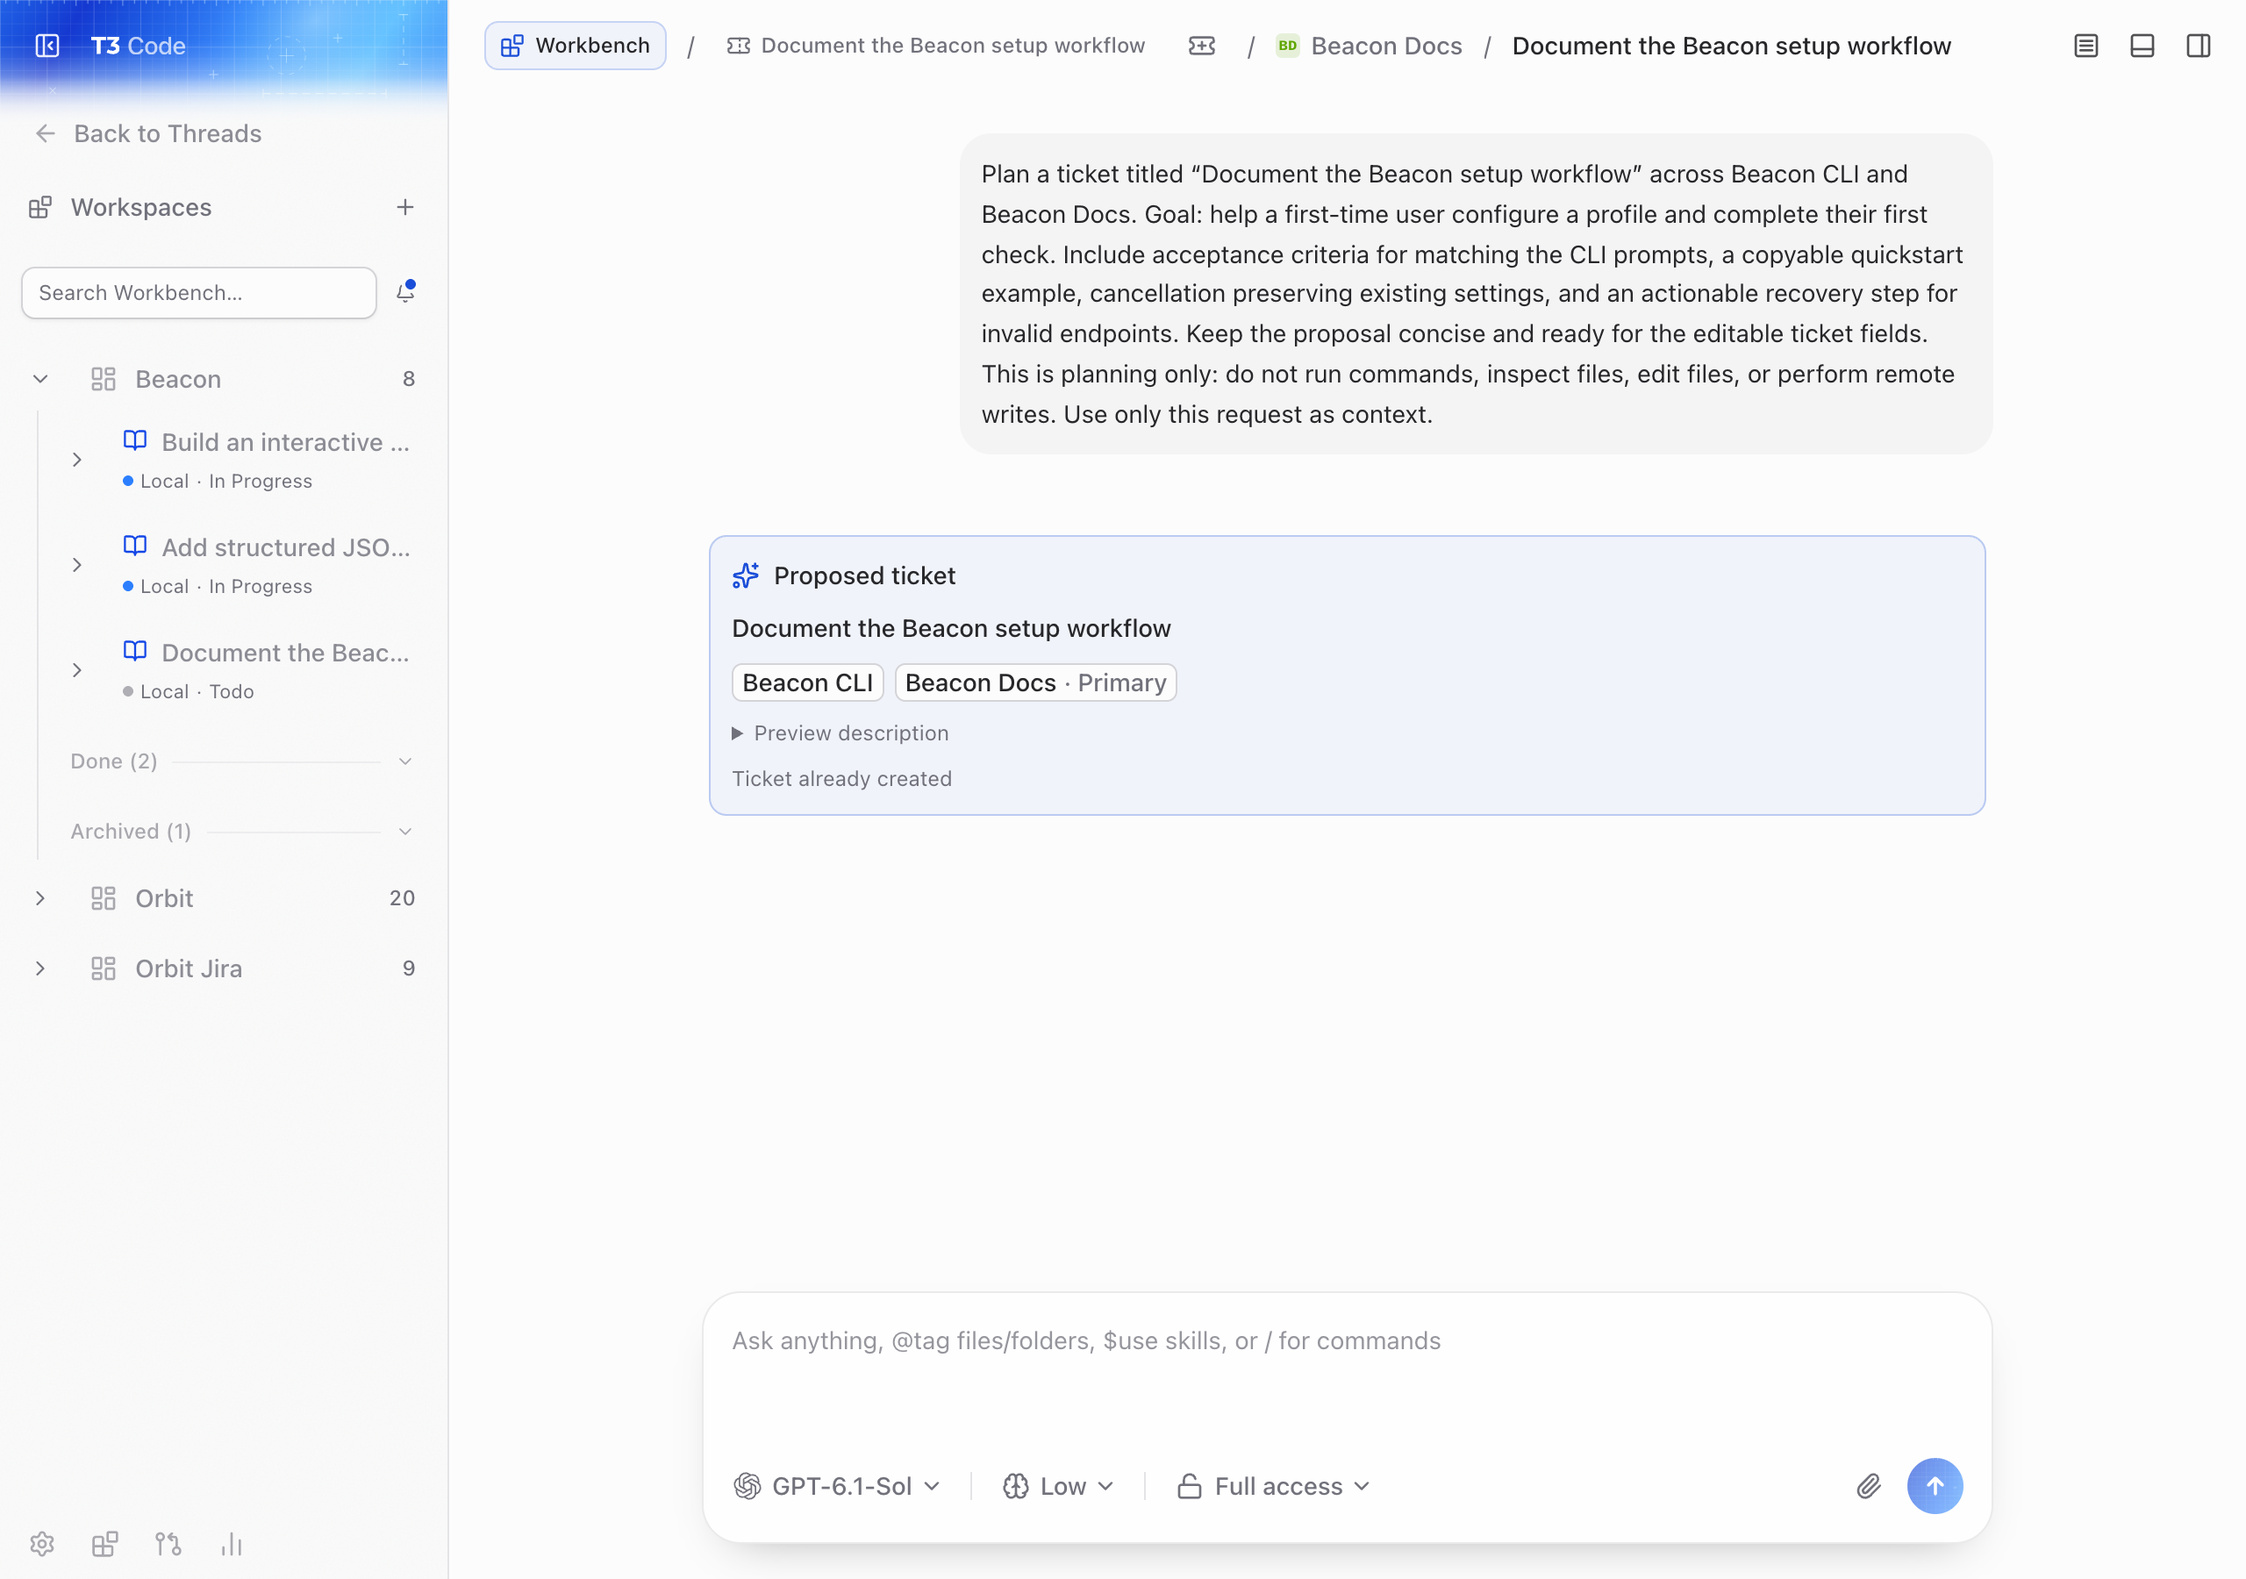
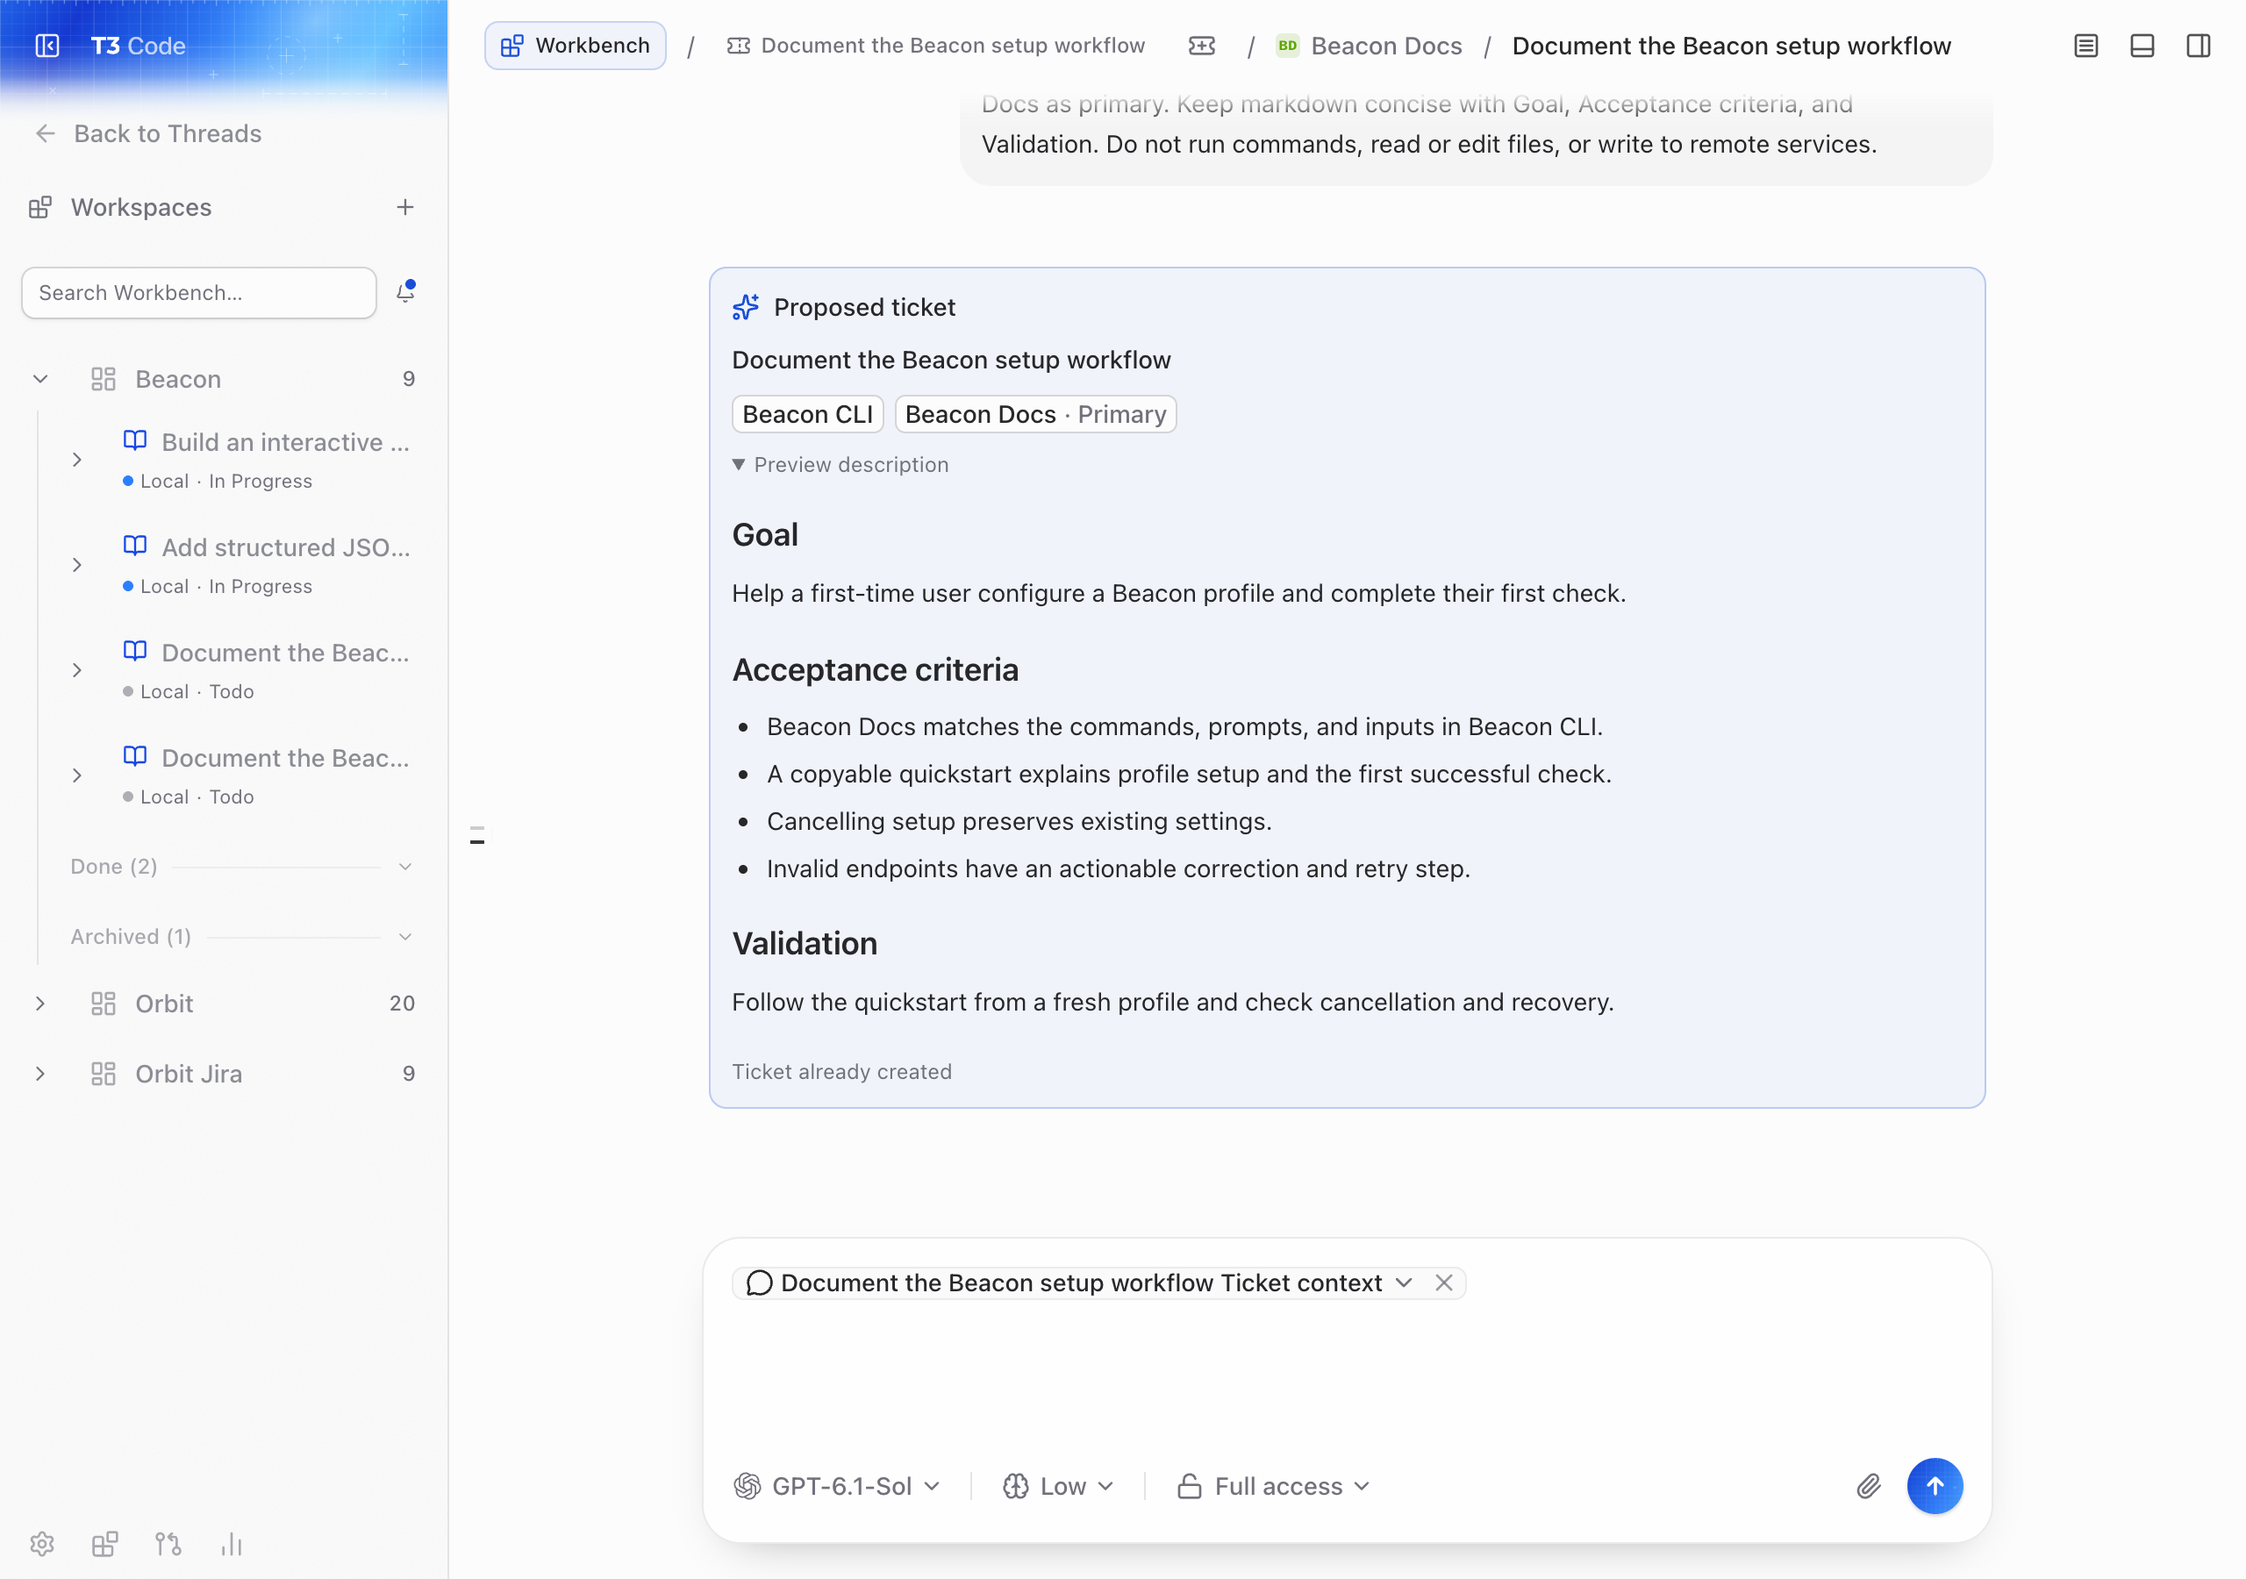
fix(workbench): attach ticket context when continuing planning threads

diff --git a/apps/web/src/workbench/useWorkbenchTicketConversation.test.tsx b/apps/web/src/workbench/useWorkbenchTicketConversation.test.tsx
@@ -7,7 +7,9 @@ import {
   WorkbenchEpicId,
   WorkbenchProjectId,
   WorkbenchTicketId,
+  WorkbenchTicketWorkspaceAttemptId,
   type ModelSelection,
+  type WorkbenchSnapshot,
   type WorkbenchTicketDraft,
 } from "@t3tools/contracts";
 import * as Cause from "effect/Cause";
@@ -21,12 +23,15 @@ import {
   useTicketDraftEditor,
   useTicketDraftTransitions,
 } from "./useWorkbenchTicketConversation";
+import { scopeThreadRef } from "@t3tools/client-runtime/environment";
+import { useComposerDraftStore } from "../composerDraftStore";
 
 const commands = vi.hoisted(() => ({
   begin: vi.fn(),
   update: vi.fn(),
   promote: vi.fn(),
   startWork: vi.fn(),
+  readSnapshot: vi.fn(),
   discard: vi.fn(),
 }));
 const toast = vi.hoisted(() => ({ add: vi.fn() }));
@@ -36,6 +41,7 @@ vi.mock("./state", () => ({
     updateTicketDraft: "update",
     promoteTicketDraft: "promote",
     startTicketDraftWork: "startWork",
+    readSnapshot: "readSnapshot",
     discardTicketDraft: "discard",
   },
 }));
@@ -121,6 +127,7 @@ afterEach(() => {
   for (const command of Object.values(commands)) command.mockReset();
   toast.add.mockReset();
   vi.unstubAllGlobals();
+  useComposerDraftStore.setState({ draftsByThreadKey: {} });
 });
 
 describe("useTicketDraftBegin", () => {
@@ -340,6 +347,7 @@ const mountEditor = async (initial: WorkbenchTicketDraft = makeDraft()) => {
   const onClose = vi.fn();
   const onCreateManually = vi.fn();
   const onDiscarded = vi.fn();
+  const onWorkStarted = vi.fn();
   const refreshSnapshot = vi.fn();
   let latest:
     | {
@@ -353,10 +361,14 @@ const mountEditor = async (initial: WorkbenchTicketDraft = makeDraft()) => {
     const transitionOptions: TransitionOptions = {
       environmentId,
       draft,
+      projects: [
+        { id: ProjectId.make("repo"), title: "API", workspaceRoot: "/source/api" },
+        { id: ProjectId.make("docs"), title: "Docs", workspaceRoot: "/source/docs" },
+      ],
       editor,
       onDraft,
       onTicketCreated: vi.fn(),
-      onWorkStarted: vi.fn(),
+      onWorkStarted,
       onDiscarded,
       onClose,
       onCreateManually,
@@ -377,6 +389,7 @@ const mountEditor = async (initial: WorkbenchTicketDraft = makeDraft()) => {
     onClose,
     onCreateManually,
     onDiscarded,
+    onWorkStarted,
     refreshSnapshot,
     editor: () => latest!.editor,
     transitions: () => latest!.transitions,
@@ -470,6 +483,125 @@ describe("useTicketDraftEditor", () => {
 });
 
 describe("useTicketDraftTransitions", () => {
+  it("stages the live ticket and prepared checkouts before continuing the same Thread", async () => {
+    const draft = makeDraft({ phase: "planning" });
+    const working = { ...draft, phase: "working" as const, revision: 2 };
+    const docs = ProjectId.make("docs");
+    const snapshot: WorkbenchSnapshot = {
+      projects: [],
+      epics: [],
+      assignments: [],
+      reservedThreadIds: [],
+      tickets: [
+        {
+          id: draft.id,
+          projectId: workspaceId,
+          epicId: null,
+          title: "Saved ticket",
+          markdown: "Requirements revised after promotion",
+          kind: "story",
+          primaryT3ProjectId: docs,
+          repositoryProjectIds: [draft.anchorProjectId, docs],
+          status: "todo",
+          blocked: false,
+          revision: 3,
+          createdAt: time,
+          updatedAt: time,
+        },
+      ],
+      ticketWorkspaces: [
+        {
+          ticketId: draft.id,
+          attemptId: WorkbenchTicketWorkspaceAttemptId.make("attempt"),
+          status: "ready",
+          branchName: "ticket",
+          errorMessage: null,
+          createdAt: time,
+          updatedAt: time,
+          repositories: [draft.anchorProjectId, docs].map((projectId) => ({
+            projectId,
+            isPrimary: projectId === docs,
+            sourcePath: `/source/${projectId}`,
+            worktreePath: `/prepared/${projectId}`,
+            branchName: "ticket",
+            status: "ready",
+            errorMessage: null,
+            createdAt: time,
+            updatedAt: time,
+          })),
+        },
+      ],
+    };
+    commands.startWork.mockResolvedValue(AsyncResult.success(working));
+    commands.readSnapshot.mockResolvedValue(AsyncResult.success(snapshot));
+    const threadRef = scopeThreadRef(environmentId, draft.threadId);
+    useComposerDraftStore.getState().setPrompt(threadRef, "Keep my unsent request");
+    const harness = await mountEditor(draft);
+    harness.onWorkStarted.mockImplementation(() => {
+      const composer = useComposerDraftStore.getState().getComposerDraft(threadRef);
+      expect(composer?.prompt).toMatch(/^Keep my unsent request /);
+      expect(composer?.reviewComments).toHaveLength(1);
+      expect(composer?.reviewComments[0]?.diff).toContain("Requirements revised after promotion");
+      expect(composer?.reviewComments[0]?.diff).toContain("Docs (primary) — /prepared/docs");
+      expect(composer?.reviewComments[0]?.diff).toContain("API — /prepared/repo");
+      expect(composer?.reviewComments[0]?.diff).not.toContain("/source/");
+    });
+    try {
+      await harness.run(() => harness.transitions().startWork());
+      expect(harness.onWorkStarted).toHaveBeenCalledWith(working);
+      expect(commands.readSnapshot).toHaveBeenCalledWith({ environmentId, input: {} });
+      expect(
+        useComposerDraftStore
+          .getState()
+          .getComposerDraft(scopeThreadRef(EnvironmentId.make("other-host"), draft.threadId)),
+      ).toBeNull();
+    } finally {
+      await harness.unmount();
+    }
+  });
+
+  it("opens the prepared Thread with visible recovery when context reading fails after unmount", async () => {
+    const working = makeDraft({ phase: "working" });
+    commands.startWork.mockResolvedValue(AsyncResult.success(working));
+    let resolveRead: (result: unknown) => void = () => {};
+    const read = new Promise<unknown>((resolve) => {
+      resolveRead = resolve;
+    });
+    let markRequested: () => void = () => {};
+    const requested = new Promise<void>((resolve) => {
+      markRequested = resolve;
+    });
+    commands.readSnapshot.mockImplementation(() => {
+      markRequested();
+      return read;
+    });
+    const harness = await mountEditor(makeDraft({ phase: "planning" }));
+    let pending: Promise<void> | undefined;
+    await harness.run(async () => {
+      pending = harness.transitions().startWork();
+      await requested;
+    });
+    // A working snapshot replaces this planning view before the fresh read completes.
+    await harness.unmount();
+    await act(async () => {
+      resolveRead(AsyncResult.failure(Cause.fail(new Error("Offline."))));
+      await pending;
+    });
+    expect(harness.onWorkStarted).toHaveBeenCalledWith(working);
+    expect(toast.add).toHaveBeenCalledWith({
+      type: "warning",
+      title: "Ticket context could not be attached",
+      description: expect.stringContaining(
+        "Use Add ticket context in the Thread before sending. Offline.",
+      ),
+    });
+    expect(
+      useComposerDraftStore
+        .getState()
+        .getComposerDraft(scopeThreadRef(environmentId, working.threadId)),
+    ).toBeNull();
+  });
+
   it.each(["close", "createManually"] as const)(
     "%s keeps the editor open with the edits when saving fails, and proceeds once it succeeds",
     async (step) => {

diff --git a/apps/web/src/workbench/useWorkbenchTicketConversation.ts b/apps/web/src/workbench/useWorkbenchTicketConversation.ts
@@ -16,6 +16,7 @@ import { workbenchEnvironment } from "./state";
 import { failureMessage } from "./workbenchPageCommands";
 import type { WorkbenchConversationDraft } from "./workbenchTicketDraft.logic";
 import { createTicketDraftFieldSync } from "./workbenchTicketDraftSync";
+import { attachWorkbenchTicketContext } from "./attachWorkbenchTicketContext";
 
 const SAVE_DELAY_MS = 600;
 
@@ -280,6 +281,7 @@ type DraftAction = "promote" | "start" | "discard";
 export function useTicketDraftTransitions({
   environmentId,
   draft,
+  projects,
   editor,
   onDraft,
   onTicketCreated,
@@ -291,6 +293,7 @@ export function useTicketDraftTransitions({
 }: {
   readonly environmentId: EnvironmentId;
   readonly draft: WorkbenchConversationDraft;
+  readonly projects: Parameters<typeof attachWorkbenchTicketContext>[0]["projects"];
   readonly editor: Pick<
     ReturnType<typeof useTicketDraftEditor>,
     "edit" | "flush" | "revision" | "latestRevision" | "abandon"
@@ -309,6 +312,7 @@ export function useTicketDraftTransitions({
   const startWorkDraft = useAtomCommand(workbenchEnvironment.startTicketDraftWork, {
     reportFailure: false,
   });
+  const readSnapshot = useAtomCommand(workbenchEnvironment.readSnapshot, { reportFailure: false });
   const discardDraft = useAtomCommand(workbenchEnvironment.discardTicketDraft, {
     reportFailure: false,
   });
@@ -376,12 +380,57 @@ export function useTicketDraftTransitions({
       environmentId,
       input: { id: draft.id, expectedRevision: revision() },
     });
-    settle(result, (started) => {
-      onDraft(started);
-      // The same native Thread continues in its prepared work area; nothing is sent automatically.
-      onWorkStarted(started);
-    });
-  }, [draft.id, environmentId, onDraft, onWorkStarted, revision, settle, startWorkDraft]);
+    if (result._tag === "Failure") return settle(result, () => {});
+    const started = result.value;
+    const snapshotResult = await readSnapshot({ environmentId, input: {} });
+    let contextError: string | null = null;
+    if (snapshotResult._tag === "Failure") contextError = failureMessage(snapshotResult);
+    else {
+      const snapshot = snapshotResult.value;
+      const ticket = snapshot.tickets.find((candidate) => candidate.id === started.id);
+      const workspace = snapshot.ticketWorkspaces.find(
+        (candidate) => candidate.ticketId === started.id,
+      );
+      const primary = workspace?.repositories.find(
+        (repository) => repository.projectId === ticket?.primaryT3ProjectId,
+      );
+      if (!ticket || workspace?.status !== "ready" || primary?.status !== "ready") {
+        contextError = "The saved ticket or its prepared repositories are unavailable.";
+      } else
+        attachWorkbenchTicketContext({
+          environmentId,
+          thread: {
+            id: started.threadId,
+            projectId: primary.projectId,
+            worktreePath: primary.worktreePath,
+          },
+          ticket,
+          projects,
+          repositories: workspace.repositories,
+        });
+    }
+    // The working snapshot can unmount this view during the read. Recovery must outlive it.
+    if (contextError !== null)
+      toastManager.add({
+        type: "warning",
+        title: "Ticket context could not be attached",
+        description: `Your work area is ready. Use Add ticket context in the Thread before sending. ${contextError}`,
+      });
+    setAction(null);
+    onDraft(started);
+    // The same native Thread continues in its prepared work area; nothing is sent automatically.
+    onWorkStarted(started);
+  }, [
+    draft.id,
+    environmentId,
+    onDraft,
+    onWorkStarted,
+    projects,
+    readSnapshot,
+    revision,
+    settle,
+    startWorkDraft,
+  ]);
 
   // Discard throws the edits away, so a failed flush is not a reason to stop; it only needs the
   // newest revision, which a conflicting saved draft may have advanced.

diff --git a/apps/web/src/workbench/state.ts b/apps/web/src/workbench/state.ts
@@ -92,6 +92,13 @@ const refreshWorkbenchAndJiraSnapshots = (
 
 export const workbenchEnvironment = {
   snapshot,
+  // Start work needs the saved ticket and prepared paths, rather than a stale query value.
+  readSnapshot: createEnvironmentRpcCommand(connectionAtomRuntime, {
+    label: "environment-data:workbench:read-snapshot",
+    tag: WS_METHODS.workbenchGetSnapshot,
+    scheduler,
+    concurrency: serialPerEnvironment,
+  }),
   ticketPreparations,
   jiraSnapshot,
   // A failed migration can have committed remotely; recovery needs a fresh reply,

diff --git a/apps/web/src/workbench/WorkbenchTicketConversation.tsx b/apps/web/src/workbench/WorkbenchTicketConversation.tsx
@@ -685,6 +685,7 @@ function WorkbenchTicketConversationBody(props: DraftBodyProps) {
   const transitions = useTicketDraftTransitions({
     environmentId,
     draft,
+    projects: props.linkedProjects,
     editor,
     onDraft,
     onTicketCreated: props.onTicketCreated,

diff --git a/docs/user/agent-workbench.md b/docs/user/agent-workbench.md
@@ -85,7 +85,8 @@ in the sidebar remains available for cleanup even after deleting the last Worksp
 ## Start agent work
 
 For a Ticket prepared through a conversation, choose **Start work** to continue
-that same Thread in its prepared work area. Send your next instruction when ready.
+that same Thread in its prepared work area. Review the Ticket context chip in the
+composer, add your next instruction, and send when ready.
 
 For a manually created or imported Ticket, or an additional conversation:
 
